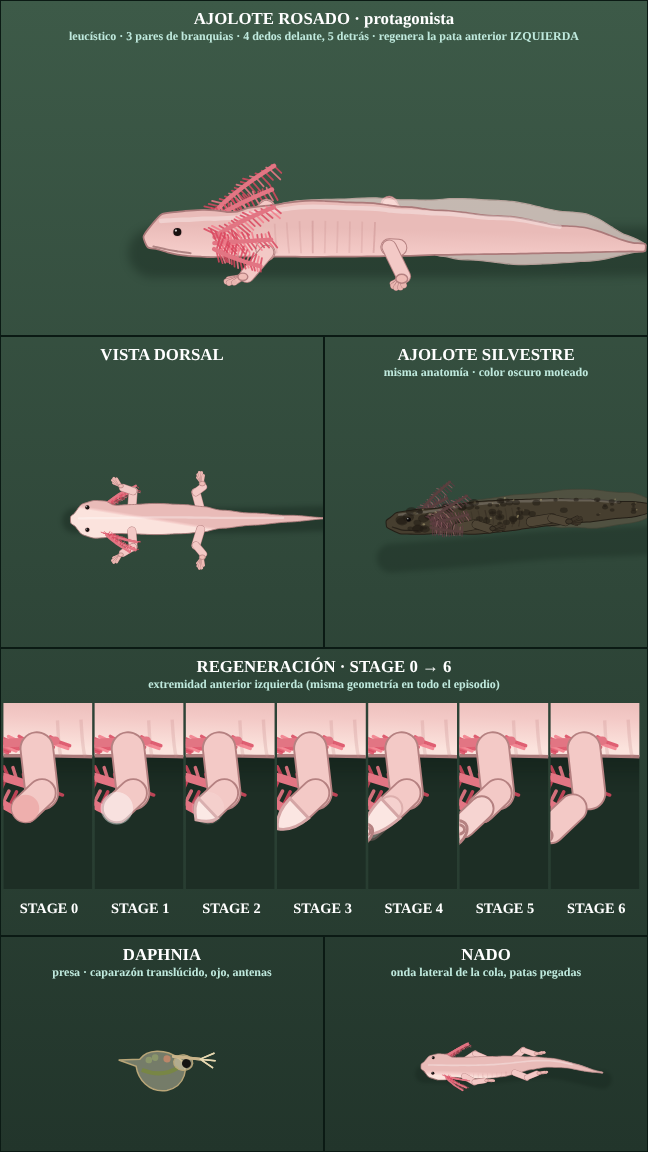
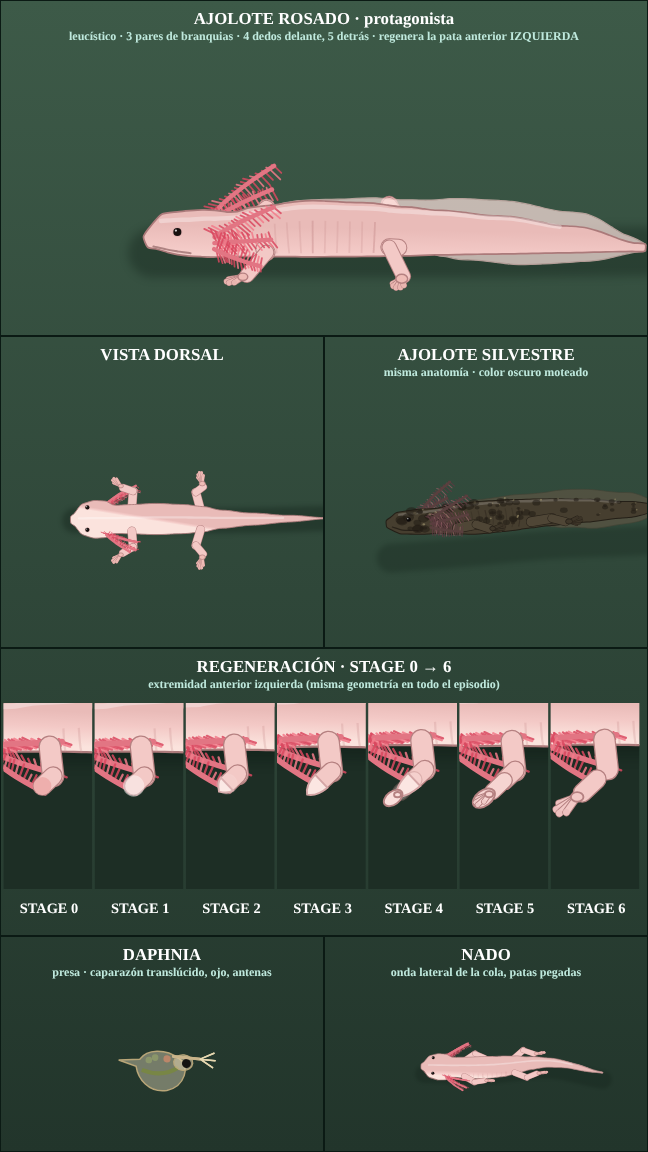
Ep06: encuadre de la tira de etapas en la ficha
Claude-Session: https://claude.ai/code/session_01VqdsivVq1jXo3K82f1R226

Changed region(s): [[0.0, 0.625, 0.9877, 0.75]]

diff --git a/estudio-animacion/src/episodes/ep06-ajolote/Characters/Showcase.tsx b/estudio-animacion/src/episodes/ep06-ajolote/Characters/Showcase.tsx
@@ -25,8 +25,9 @@ const Panel: React.FC<{x: number; y: number; w: number; h: number; title: string
 const Axo: React.FC<{spec: AxolotlSpec; pitch: number; yaw?: number; m: MotionParams; zoom: number; cx: number; cy: number; uid: string; regen?: number; focus?: 'lf'}> = ({spec, pitch, yaw = 0, m, zoom, cx, cy, uid, regen, focus}) => {
   const view = makeView(yaw, pitch);
   const pose = buildPose(spec, m, null, regen !== undefined ? {regen: {r: regen, size: 0.75 + 0.25 * Math.max(0, regen - 5)}} : {});
-  const {items, lfElbow} = axolotlItems(view, spec, pose, uid);
-  const c = focus && lfElbow ? project(view, lfElbow) : project(view, [m.root[0], 120, m.root[2]] as V3);
+  const {items, lfElbow, lfTip} = axolotlItems(view, spec, pose, uid);
+  const fp = lfElbow && lfTip ? ([(lfElbow[0] + lfTip[0]) / 2, (lfElbow[1] + lfTip[1]) / 2, (lfElbow[2] + lfTip[2]) / 2] as V3) : lfElbow;
+  const c = focus && fp ? project(view, fp) : project(view, [m.root[0], 120, m.root[2]] as V3);
   return <g transform={`translate(${cx} ${cy}) scale(${zoom}) translate(${-c.x} ${-c.y})`}>{sortItems(items).map((i) => i.node)}</g>;
 };
 
@@ -46,7 +47,7 @@ export const Ep06Characters: React.FC = () => (
         <g key={r}>
           <svg x={4 + i * 152} y={90} width={148} height={310} overflow="hidden">
             <rect width={148} height={310} fill="#1d2e25" />
-            <Axo spec={PINK} pitch={1.05} m={M({})} zoom={1.6} cx={64} cy={150} uid={`r${i}`} regen={r} focus="lf" />
+            <Axo spec={PINK} pitch={1.05} m={M({})} zoom={1.05} cx={74} cy={130} uid={`r${i}`} regen={r} focus="lf" />
           </svg>
           <text x={80 + i * 152} y={440} textAnchor="middle" fill="#fff" fontFamily={FONT_FAMILY} fontWeight={800} fontSize={24}>
             {`STAGE ${r}`}
